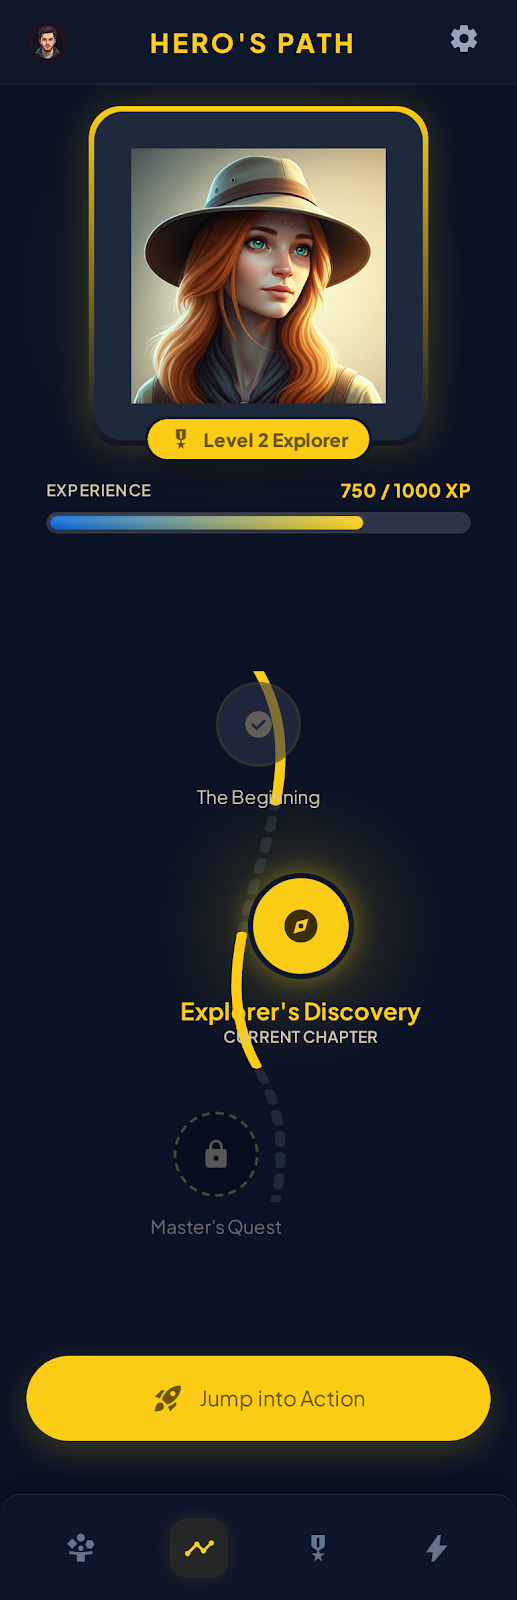
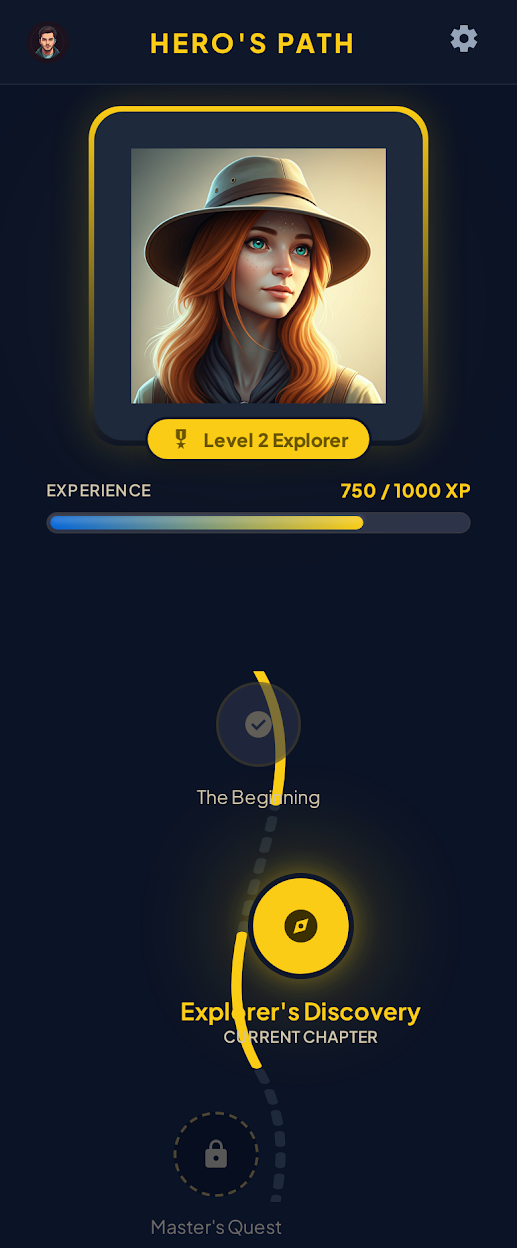
Crop Jump-into-Action bar from images; reset XP to zero on interstitial
- Cropped bottom ~22% off both stitch_hat_preview.png and
  stitch_crowned_achievement.png, removing the "Jump into Action"
  button and bottom nav bar from both reference images.

- HatPreviewInterstitialScreen.initState() now calls
  JourneyController.to.resetProgress() so XP always starts at 0
  before the hat-earn game session begins.

https://claude.ai/code/session_01AFhRNfQi3PeC7dLy8UAtxV

diff --git a/lib/screens/hat_preview_interstitial_screen.dart b/lib/screens/hat_preview_interstitial_screen.dart
@@ -1,6 +1,7 @@
 import 'package:flutter/material.dart';
 import 'package:get/get.dart';
 
+import 'package:ez_trainz/controllers/journey_controller.dart';
 import 'package:ez_trainz/screens/lesson1_game_flow_screen.dart';
 
 /// Shown right after the Lesson 1 video finishes (or when the user taps
@@ -25,6 +26,8 @@ class _HatPreviewInterstitialScreenState
   @override
   void initState() {
     super.initState();
+    // Reset XP so the hat is earned fresh through the game.
+    JourneyController.to.resetProgress();
     _slideIn = AnimationController(
       vsync: this,
       duration: const Duration(milliseconds: 650),
